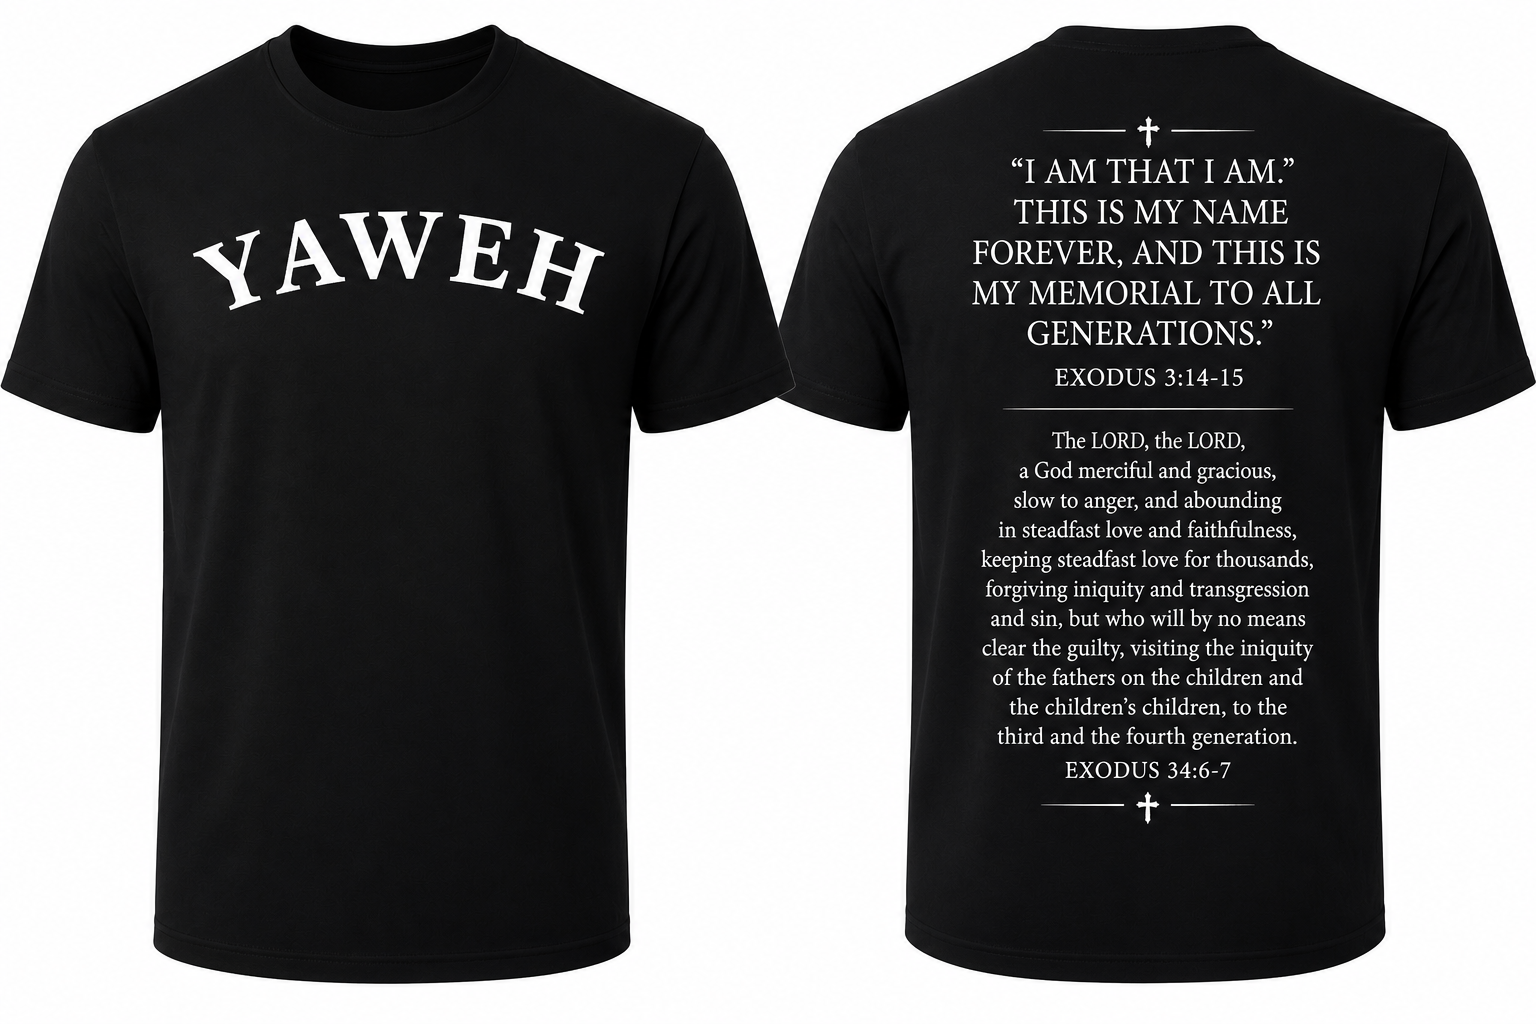
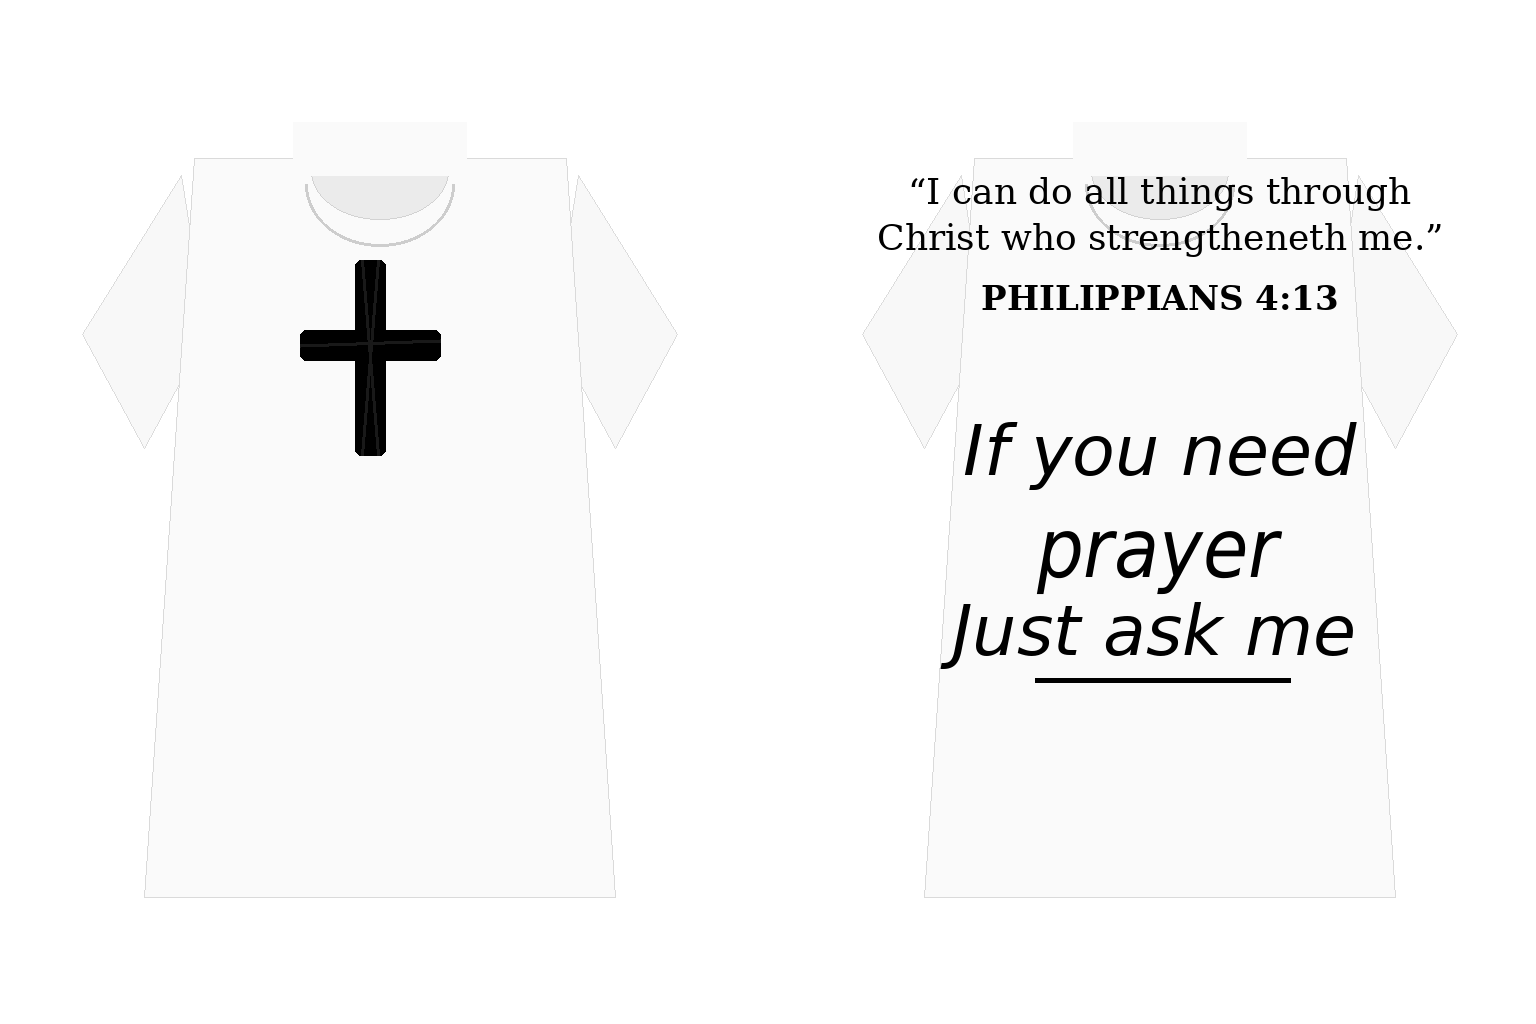
Add files via upload

diff --git a/index.html b/index.html
@@ -2,91 +2,112 @@
 <html lang="en">
 <head>
   <meta charset="utf-8">
-  <meta name="viewport" content="width=device-width,initial-scale=1">
+  <meta name="viewport" content="width=device-width, initial-scale=1">
   <title>No Vanity 33 | Christian Apparel</title>
-  <meta name="description" content="No Vanity 33 is Christian apparel created to carry Scripture, start prayer conversations, and point people toward Christ.">
-  <meta name="keywords" content="No Vanity 33, Christian clothing, Bible verse shirts, faith apparel, prayer shirts, Christ centered apparel">
+  <meta name="description" content="No Vanity 33 is Christ-centered apparel made to carry Scripture, start conversations, and invite prayer.">
+  <meta name="keywords" content="No Vanity 33, Christian clothing, faith apparel, Bible verse shirts, prayer shirts">
   <meta property="og:title" content="No Vanity 33 | Christian Apparel">
-  <meta property="og:description" content="Wear your faith. Live with purpose. Point others to Christ.">
+  <meta property="og:description" content="Wear the Word. Live with purpose. Point others to Christ.">
   <meta property="og:type" content="website">
   <link rel="stylesheet" href="styles.css">
 </head>
 <body>
-<header class="nav">
-  <a class="brand" href="#home">NO VANITY <span>33</span></a>
-  <nav>
-    <a href="#shop">Shop</a>
-    <a href="#mission">Mission</a>
-    <a href="#prayer">Prayer</a>
-    <a href="#generator">Scripture</a>
-    <a href="#cart">Cart <b id="cartCount">0</b></a>
-  </nav>
-</header>
+  <header class="nav">
+    <a class="brand" href="#home">NO VANITY <span>33</span></a>
+    <nav>
+      <a href="#shop">Shop</a>
+      <a href="#mission">Mission</a>
+      <a href="#prayer">Prayer</a>
+      <a href="#scripture">Scripture</a>
+      <a href="#cart">Cart <span id="cartCount">0</span></a>
+    </nav>
+  </header>
 
-<main>
-  <section id="home" class="hero">
-    <p class="eyebrow">FAITH • PURPOSE • NO VANITY</p>
-    <h1>Wear the Word. Live the Gospel. Point others to Christ.</h1>
-    <p>No Vanity 33 creates Christian apparel designed to carry Scripture, invite prayer, and remind the world that identity is found in Christ.</p>
-    <div class="hero-actions">
-      <a class="btn" href="#shop">Shop Collection</a>
-      <a class="btn secondary" href="#mission">Read the Mission</a>
-    </div>
-  </section>
+  <main>
+    <section id="home" class="hero">
+      <div class="hero-inner">
+        <p class="eyebrow">Christ-centered apparel</p>
+        <h1>Wear the Word. Live the Gospel.</h1>
+        <p class="hero-verse">“And whatsoever ye do, do it heartily, as to the Lord, and not unto men.” — Colossians 3:23</p>
+        <p>Scripture apparel made to carry truth, start conversations, and invite prayer.</p>
+        <div class="hero-actions">
+          <a class="btn" href="#shop">Shop Collection</a>
+          <a class="btn secondary" href="#mission">Read the Mission</a>
+        </div>
+      </div>
+    </section>
 
-  <section class="notice"><strong>Order Notice:</strong> Apparel is made to order. Please allow 3–4 weeks for production and delivery while we transition fulfillment to Printful.</section>
+    <section class="notice">
+      <strong>Important Order Information:</strong> Due to demand and made-to-order production, please allow 3–4 weeks lead time. Printful fulfillment is being prepared.
+    </section>
 
-  <section id="mission" class="panel mission-panel">
-    <p class="eyebrow">OUR STORY</p>
-    <h2>More Than Clothing</h2>
-    <p><strong>No Vanity 33</strong> was founded with one purpose: to point people toward Christ. In a world that often celebrates self, appearance, and status, we want every design to remind people that true identity is not found in ourselves — it is found in Jesus Christ.</p>
-    <p>Every shirt is created with intention. Our designs are meant to start conversations, encourage faith, and remind both the person wearing them and the people around them that hope is still alive.</p>
-    <p>One of the things that makes No Vanity 33 unique is that every design carries Scripture. Rather than printing the same verses repeatedly, we intentionally use different passages across our apparel. Our hope is that every order places God's Word into someone's life in a fresh way. A verse on the back of a shirt may be exactly what someone needed to read on an ordinary day.</p>
-    <p>You will also see a simple message across the brand: <strong>“If you need prayer, just ask me.”</strong> Those words are not just a slogan. They are an invitation. If one shirt leads to one prayer, one encouraging conversation, or one person taking a step closer to Christ, then it has already served a purpose greater than clothing.</p>
-    <p>As No Vanity 33 grows, our desire is to use the business to serve people in practical ways — helping those facing hardship, encouraging families in need, and reflecting Christ's love through both words and action.</p>
-  </section>
+    <section class="signature-strip">
+      <span>If you need prayer, just ask me.</span>
+      <span>novanity33.com</span>
+    </section>
 
-  <section id="prayer" class="panel gold-panel">
-    <p class="eyebrow">PRAYER INVITATION</p>
-    <h2>If You Need Prayer, Just Ask</h2>
-    <p>Every shirt is meant to be a conversation starter. Soon this page will include a prayer request form and QR-code links from each shirt.</p>
-    <a class="btn" href="mailto:[email redacted]?subject=Prayer%20Request%20-%20No%20Vanity%2033">Request Prayer by Email</a>
-  </section>
+    <section id="shop" class="section">
+      <p class="eyebrow">Full Catalog</p>
+      <h2>Shop Collection</h2>
+      <p class="section-intro">Launch tees are $20. Original apparel is restored below with shirts, shorts, sweatpants, and socks.</p>
+      <div class="filters" id="filters"></div>
+      <div id="products" class="grid"></div>
+    </section>
 
-  <section id="generator" class="panel">
-    <p class="eyebrow">SCRIPTURE GENERATOR</p>
-    <h2>Let the Word Speak</h2>
-    <p>Choose a theme and generate a Scripture that can be used on a custom design.</p>
-    <div class="gen-grid">
-      <select id="topic"><option value="faith">Faith</option><option value="strength">Strength</option><option value="hope">Hope</option><option value="salvation">Salvation</option><option value="peace">Peace</option></select>
-      <button class="btn" id="generateVerse">Generate Scripture</button>
-    </div>
-    <div id="verseBox" class="verse">Click the button to reveal a scripture.</div>
-    <textarea id="customVerse" placeholder="Generated scripture or custom request..."></textarea>
-    <button class="btn secondary" id="useGenerated">Use Generated Scripture</button>
-  </section>
+    <section id="mission" class="section mission">
+      <p class="eyebrow">Our Mission</p>
+      <h2>Why No Vanity 33 Exists</h2>
+      <div class="story-card">
+        <p><strong>No Vanity 33</strong> was founded with one purpose: to point people toward Christ.</p>
+        <p>In a world that often celebrates self, appearance, and status, we want every design to remind people that true identity is not found in ourselves. It is found in Jesus Christ. The name <strong>No Vanity</strong> is a reminder that our lives are meant to reflect Him, not ourselves.</p>
+        <p>Every shirt is created with intention. Our designs are meant to start conversations, encourage faith, and remind both the person wearing them and the people around them that hope is still alive.</p>
+        <p>One of the things that makes No Vanity 33 unique is that every design includes Scripture. Rather than printing the same verse repeatedly, we intentionally use different passages from the Bible across our apparel. Our hope is that every order places God’s Word into someone’s life in a fresh way. A verse on the back of a shirt may be exactly what someone needed to read on an ordinary day.</p>
+        <p>You will also notice a simple message on our apparel: <strong>“If you need prayer, just ask me.”</strong> Those words are not just a slogan. They are an invitation.</p>
+        <p>As No Vanity 33 grows, our desire is to use the business to serve people in practical ways: helping those facing hardship, encouraging families in need, and reflecting Christ’s love through both words and actions.</p>
+        <p><strong>Wear your faith. Live with purpose. Point others to Christ.</strong></p>
+      </div>
+    </section>
 
-  <section id="shop">
-    <p class="eyebrow">FULL CATALOG</p>
-    <h2>Shop Collection</h2>
-    <p class="section-copy">Includes the original catalog plus the four new $20 launch tees.</p>
-    <div id="products" class="grid"></div>
-  </section>
+    <section id="prayer" class="section prayer">
+      <p class="eyebrow">Prayer</p>
+      <h2>If You Need Prayer, Just Ask</h2>
+      <p class="section-intro">This section is the future home for prayer requests and QR-code shirt links. For now, customers can reach out by email.</p>
+      <div class="prayer-card">
+        <p><strong>Email:</strong> [email redacted]</p>
+        <p>Future update: QR codes on shirts will lead visitors to Scripture pages and prayer request forms.</p>
+      </div>
+    </section>
 
-  <section id="cart" class="panel">
-    <h2>Your Cart</h2>
-    <div id="cartItems">Cart is empty.</div>
-    <div class="total">Total: $<span id="total">0</span></div>
-    <div class="checkout">
-      <a class="btn" href="https://buy.stripe.com/fZu3cx2WugOz4FidoWao800" target="_blank">Checkout with Stripe</a>
-      <a class="btn secondary" href="https://paypal.me/novanity33" target="_blank">Pay with PayPal</a>
-      <a class="btn secondary" href="https://cash.app/$NoVanity33" target="_blank">Pay with Cash App</a>
-    </div>
-    <p class="small">After payment, email order details to [email redacted] until automated Printful checkout is connected.</p>
-  </section>
-</main>
+    <section id="scripture" class="section scripture">
+      <p class="eyebrow">Scripture on Every Design</p>
+      <h2>Why Every Shirt Carries the Word</h2>
+      <p class="section-intro">Every piece is meant to be more than clothing. It should carry Scripture into everyday places and open the door for prayer.</p>
+      <div class="three">
+        <div><h3>Start Conversations</h3><p>A verse can open a door that a normal logo cannot.</p></div>
+        <div><h3>Invite Prayer</h3><p>The small prayer line turns the shirt into an invitation.</p></div>
+        <div><h3>Point to Christ</h3><p>The brand is built to reflect Him, not vanity.</p></div>
+      </div>
+    </section>
 
-<footer>No Vanity 33 • [email redacted] • Wear the Word. Live the Gospel.</footer>
-<script src="script.js"></script>
+    <section id="cart" class="section cart-section">
+      <p class="eyebrow">Checkout</p>
+      <h2>Your Cart</h2>
+      <div id="cartItems" class="cart-items"></div>
+      <div class="cart-total">Total: $<span id="cartTotal">0.00</span></div>
+      <div class="checkout-box">
+        <p><strong>Current checkout:</strong> Use PayPal/Cash App while Stripe + Apple Pay + Google Pay + Printful are being connected.</p>
+        <a class="btn" href="https://paypal.me/novanity33" target="_blank" rel="noopener">Pay with PayPal</a>
+        <a class="btn secondary" href="https://cash.app/$NoVanity33" target="_blank" rel="noopener">Pay with Cash App</a>
+      </div>
+    </section>
+  </main>
+
+  <footer>
+    <strong>NO VANITY 33</strong>
+    <p>Clothing with purpose. Scripture with every wear.</p>
+    <p>Contact: [email redacted]</p>
+  </footer>
+
+  <script src="script.js"></script>
 </body>
 </html>

diff --git a/script.js b/script.js
@@ -1,71 +1,111 @@
-const products = [
-  {id:'cross-prayer-black',name:'Cross Prayer Tee - Black',price:20,img:'images/cross-prayer-black.png',desc:'Simple cross front, Scripture across the upper back, and a small prayer invitation.'},
-  {id:'cross-prayer-white',name:'Cross Prayer Tee - White',price:20,img:'images/cross-prayer-white.png',desc:'White launch tee with black lettering, Scripture, and the No Vanity prayer invitation.'},
-  {id:'yahweh-black',name:'YAHWEH Tee - Black',price:20,img:'images/qr-prayer-black.png',desc:'Bold faith tee with YAHWEH across the chest and Scripture on the back.'},
-  {id:'yahweh-white',name:'YAHWEH Tee - White',price:20,img:'images/yahweh-white.png',desc:'White YAHWEH launch tee with Scripture on the back.'},
-
-  {id:'crown-tee',name:'Crown of Thorns 33 Tee',price:25,img:'images/crown-tee.svg',desc:'Logo front with bold scripture back.'},
-  {id:'lion-tee',name:'Lion Crown Tee',price:25,img:'images/lion-tee.svg',desc:'Lion of Judah inspired front with scripture back.'},
-  {id:'cross-bible-tee',name:'Cross & Open Bible Tee',price:25,img:'images/cross-bible-tee.svg',desc:'Simple cross front and Word-centered back.'},
-  {id:'white-horse-tee',name:'Christ Returns Tee',price:30,img:'images/white-horse-tee.svg',desc:'White horse return design with King of Kings theme.'},
-  {id:'armor-tee',name:'Armor of God Tee',price:25,img:'images/armor-tee.svg',desc:'Armor of God design with scripture back.'},
-  {id:'custom-shirt',name:'Custom Scripture Shirt',price:30,img:'images/custom-shirt.svg',desc:'Use the Scripture Generator for the back.'},
-  {id:'hoodie',name:'No Vanity 33 Hoodie',price:45,img:'images/hoodie.svg',desc:'Premium hoodie with crown logo and scripture.'},
-  {id:'sweatpants',name:'Cross Scripture Sweatpants',price:35,img:'images/sweatpants.svg',desc:'Cross down one leg and scripture on the other.'},
-  {id:'black-shorts',name:'Black Sport Shorts',price:22,img:'images/black-shorts.svg',desc:'Simple cross athletic shorts.'},
-  {id:'red-shorts',name:'Red Cross Shorts',price:22,img:'images/red-shorts.svg',desc:'Red shorts with gold cross detail.'},
-  {id:'socks',name:'Cross Socks',price:12,img:'images/socks.svg',desc:'Cross socks with multiple color options.'},
-  {id:'beanie',name:'Crown 33 Beanie',price:18,img:'images/beanie.svg',desc:'Simple No Vanity 33 headwear.'}
-];
-
-const verses={
-  faith:['Hebrews 11:1 — Now faith is the substance of things hoped for, the evidence of things not seen.','2 Corinthians 5:7 — For we walk by faith, not by sight.'],
-  strength:['Philippians 4:13 — I can do all things through Christ which strengtheneth me.','Isaiah 40:31 — They that wait upon the LORD shall renew their strength.'],
-  hope:['Jeremiah 29:11 — For I know the thoughts that I think toward you, saith the LORD.','Romans 15:13 — Now the God of hope fill you with all joy and peace in believing.'],
-  salvation:['John 3:16 — For God so loved the world, that he gave his only begotten Son.','Romans 10:9 — If thou shalt confess with thy mouth the Lord Jesus...'],
-  peace:['John 14:27 — Peace I leave with you, my peace I give unto you.','Philippians 4:7 — The peace of God, which passeth all understanding...']
+const STORE = {
+  email: '[email redacted]',
+  paypalMe: 'https://paypal.me/novanity33',
+  cashApp: 'https://cash.app/$NoVanity33'
 };
 
-let cart=[];
-let currentVerse='';
+const products = [
+  // New $20 launch tees
+  {id:'cross-prayer-black', category:'Launch Tees', name:'Simple Cross Prayer Tee - Black', price:20, img:'images/cross-prayer-black.png', desc:'Simple white cross front with Scripture and prayer invitation on back.', sizes:['S','M','L','XL','2XL','3XL'], colors:['Black']},
+  {id:'cross-prayer-white', category:'Launch Tees', name:'Simple Cross Prayer Tee - White', price:20, img:'images/cross-prayer-white.png', desc:'Clean white tee with black cross, Scripture, and prayer invitation.', sizes:['S','M','L','XL','2XL','3XL'], colors:['White']},
+  {id:'yahweh-black', category:'Launch Tees', name:'YAHWEH Scripture Tee - Black', price:20, img:'images/yahweh-black.png', desc:'YAHWEH arched chest design with Exodus Scripture on back.', sizes:['S','M','L','XL','2XL','3XL'], colors:['Black']},
+  {id:'yahweh-white', category:'Launch Tees', name:'YAHWEH Scripture Tee - White', price:20, img:'images/yahweh-white.png', desc:'White YAHWEH Scripture tee with bold black lettering.', sizes:['S','M','L','XL','2XL','3XL'], colors:['White']},
+
+  // Original restored catalog
+  {id:'crown-thorns-33', category:'Shirts', name:'Crown of Thorns 33 Tee', price:25, img:'images/crown-thorns-33-tee.png', desc:'Crown of thorns with 33 and Isaiah 53:5 Scripture back.', sizes:['S','M','L','XL','2XL','3XL'], colors:['Black']},
+  {id:'logo-crown-tee', category:'Shirts', name:'Gold Crown 33 Logo Tee', price:25, img:'images/logo-crown-tee.png', desc:'Minimal No Vanity 33 crown logo shirt with John 3:33.', sizes:['S','M','L','XL','2XL','3XL'], colors:['Black']},
+  {id:'no-vanity-black', category:'Shirts', name:'No Vanity Statement Tee - Black', price:25, img:'images/no-vanity-shirt.png', desc:'No Vanity 33 statement tee with 1 Corinthians 10:31.', sizes:['S','M','L','XL','2XL','3XL'], colors:['Black']},
+  {id:'no-vanity-tan', category:'Shirts', name:'No Vanity Statement Tee - Tan', price:25, img:'images/no-vanity-tan-shirt.png', desc:'Tan No Vanity 33 tee with Scripture back.', sizes:['S','M','L','XL','2XL','3XL'], colors:['Tan']},
+  {id:'christ-returns', category:'Shirts', name:'Christ Returns King of Kings Tee', price:30, img:'images/christ-returns-tee.png', desc:'Christ returning on the white horse with Revelation 19:11–16 theme.', sizes:['S','M','L','XL','2XL','3XL'], colors:['Black']},
+  {id:'lion-judah', category:'Shirts', name:'Lion of Judah Tee', price:30, img:'images/lion-of-judah-tee.png', desc:'Lion of the tribe of Judah design with Revelation 5:5 back.', sizes:['S','M','L','XL','2XL','3XL'], colors:['Black']},
+  {id:'crown-logo-alt', category:'Shirts', name:'Crown 33 Logo Tee Alt', price:25, img:'images/crown-thorns-logo-tee-alt.png', desc:'Alternate crown logo product image for No Vanity 33.', sizes:['S','M','L','XL','2XL','3XL'], colors:['Black']},
+
+  {id:'black-cross-sweatpants', category:'Sweatpants', name:'Black Cross Scripture Sweatpants', price:45, img:'images/black-cross-sweatpants.png', desc:'Black sweatpants with cross and multiple Scripture references.', sizes:['S','M','L','XL','2XL','3XL'], colors:['Black']},
+  {id:'gray-cross-sweatpants', category:'Sweatpants', name:'Gray Cross Scripture Sweatpants', price:45, img:'images/gray-cross-sweatpants.png', desc:'Gray sweatpants with cross and Scripture down the leg.', sizes:['S','M','L','XL','2XL','3XL'], colors:['Gray']},
+  {id:'gray-sweatpants-alt', category:'Sweatpants', name:'Gray Scripture Sweatpants Alt', price:45, img:'images/gray-sweatpants-alt.png', desc:'Alternate gray sweatpants product image.', sizes:['S','M','L','XL','2XL','3XL'], colors:['Gray']},
+
+  {id:'black-cross-shorts', category:'Shorts', name:'Black Cross Shorts', price:30, img:'images/black-cross-shorts.png', desc:'Black athletic shorts with simple white cross.', sizes:['S','M','L','XL','2XL','3XL'], colors:['Black']},
+  {id:'red-crown-shorts', category:'Shorts', name:'Red Crown 33 Shorts', price:30, img:'images/red-crown-shorts.png', desc:'Red shorts with crown 33 logo and Isaiah 53:5 Scripture.', sizes:['S','M','L','XL','2XL','3XL'], colors:['Red']},
+
+  {id:'black-red-cross-socks', category:'Socks', name:'Black Socks with Red Cross', price:15, img:'images/black-red-cross-socks.png', desc:'Black crew socks with red cross on front.', sizes:['One Size'], colors:['Black / Red']},
+  {id:'red-cross-socks', category:'Socks', name:'Red Cross Socks', price:15, img:'images/red-cross-socks.png', desc:'Red socks with white cross details.', sizes:['One Size'], colors:['Red']},
+  {id:'blue-cross-socks', category:'Socks', name:'Blue Cross Socks', price:15, img:'images/blue-cross-socks.png', desc:'Blue socks with white cross details.', sizes:['One Size'], colors:['Blue']},
+  {id:'green-cross-socks', category:'Socks', name:'Green Cross Socks', price:15, img:'images/green-cross-socks.png', desc:'Green socks with white cross details.', sizes:['One Size'], colors:['Green']}
+];
+
+let currentCategory = 'All';
+let cart = [];
+
+function money(n){ return Number(n).toFixed(2); }
+
+function categories(){
+  return ['All', ...Array.from(new Set(products.map(p => p.category)))];
+}
+
+function renderFilters(){
+  const el = document.getElementById('filters');
+  el.innerHTML = categories().map(cat => `<button class="filter-btn ${cat===currentCategory?'active':''}" data-cat="${cat}">${cat}</button>`).join('');
+  el.querySelectorAll('button').forEach(btn => btn.addEventListener('click', () => {
+    currentCategory = btn.dataset.cat;
+    renderFilters();
+    renderProducts();
+  }));
+}
+
+function productCard(p){
+  return `<article class="card">
+    ${p.category==='Launch Tees' ? '<span class="badge">New $20 Launch Tee</span>' : `<span class="badge">${p.category}</span>`}
+    <img src="${p.img}" alt="${p.name}" loading="lazy" onerror="this.style.opacity=.35;this.alt='Image missing: ${p.img}'">
+    <h3>${p.name}</h3>
+    <div class="price">$${money(p.price)}</div>
+    <p class="desc">${p.desc}</p>
+    <div class="options">
+      <label>Size
+        <select id="size-${p.id}">${p.sizes.map(s => `<option>${s}</option>`).join('')}</select>
+      </label>
+      <label>Color
+        <select id="color-${p.id}">${p.colors.map(c => `<option>${c}</option>`).join('')}</select>
+      </label>
+    </div>
+    <button class="btn add" onclick="addToCart('${p.id}')">Add to Cart</button>
+  </article>`;
+}
 
 function renderProducts(){
-  const productGrid = document.getElementById('products');
-  productGrid.innerHTML=products.map(p=>`<div class="card">
-    <div class="image-wrap"><img src="${p.img}" alt="${p.name}"></div>
-    <h3>${p.name}</h3>
-    <p>${p.desc}</p>
-    <p class="prayer-line">If you need prayer, just ask me.</p>
-    <div class="options">
-      <select id="size-${p.id}"><option>S</option><option>M</option><option>L</option><option>XL</option><option>2X</option><option>3X</option></select>
-      <select id="color-${p.id}"><option>Black</option><option>White</option><option>Cream</option><option>Olive</option><option>Red</option><option>Gold</option><option>Gray</option></select>
-    </div>
-    <div class="price">$${p.price}</div>
-    <button class="btn" onclick="addToCart('${p.id}')">Add to Cart</button>
-  </div>`).join('')
+  const list = currentCategory === 'All' ? products : products.filter(p => p.category === currentCategory);
+  document.getElementById('products').innerHTML = list.map(productCard).join('');
 }
 
 function addToCart(id){
-  const p=products.find(x=>x.id===id);
-  cart.push({...p,size:document.getElementById('size-'+id).value,color:document.getElementById('color-'+id).value,verse:currentVerse});
+  const p = products.find(x => x.id === id);
+  const size = document.getElementById(`size-${id}`).value;
+  const color = document.getElementById(`color-${id}`).value;
+  cart.push({...p, size, color});
+  renderCart();
+}
+
+function removeFromCart(index){
+  cart.splice(index,1);
   renderCart();
 }
 
 function renderCart(){
-  document.getElementById('cartCount').textContent=cart.length;
-  if(!cart.length){document.getElementById('cartItems').textContent='Cart is empty.';document.getElementById('total').textContent='0';return}
-  document.getElementById('cartItems').innerHTML=cart.map((i,n)=>`<div class="cart-row"><span>${i.name} — ${i.size}, ${i.color}</span><strong>$${i.price}</strong></div>`).join('');
-  document.getElementById('total').textContent=cart.reduce((s,i)=>s+i.price,0)
+  document.getElementById('cartCount').textContent = cart.length;
+  const items = document.getElementById('cartItems');
+  if(!cart.length){
+    items.innerHTML = '<p class="section-intro">Your cart is empty.</p>';
+  } else {
+    items.innerHTML = cart.map((item, i) => `<div class="cart-row">
+      <div><strong>${item.name}</strong><br><span>${item.size} / ${item.color}</span></div>
+      <div><strong>$${money(item.price)}</strong> <button onclick="removeFromCart(${i})">Remove</button></div>
+    </div>`).join('');
+  }
+  const total = cart.reduce((sum, item) => sum + Number(item.price), 0);
+  document.getElementById('cartTotal').textContent = money(total);
 }
 
-document.getElementById('generateVerse').onclick=()=>{
-  const t=document.getElementById('topic').value;
-  const arr=verses[t];
-  currentVerse=arr[Math.floor(Math.random()*arr.length)];
-  document.getElementById('verseBox').textContent=currentVerse
-};
-
-document.getElementById('useGenerated').onclick=()=>{document.getElementById('customVerse').value=currentVerse||'Let God choose my scripture.'};
-
-renderProducts();
-renderCart();
+document.addEventListener('DOMContentLoaded', () => {
+  renderFilters();
+  renderProducts();
+  renderCart();
+});

diff --git a/styles.css b/styles.css
@@ -1,1 +1,4 @@
-:root{--bg:#080808;--panel:#111;--panel2:#171717;--text:#f5f2e8;--muted:#c9c1ad;--gold:#d9ad45;--line:#2b261b}*{box-sizing:border-box}html{scroll-behavior:smooth}body{margin:0;font-family:Arial,Helvetica,sans-serif;background:var(--bg);color:var(--text)}a{color:inherit}.nav{position:sticky;top:0;z-index:10;display:flex;justify-content:space-between;align-items:center;padding:18px 24px;background:rgba(8,8,8,.94);border-bottom:1px solid var(--line);backdrop-filter:blur(8px)}.brand{font-weight:900;letter-spacing:2px;text-decoration:none}.brand span{color:var(--gold)}nav{display:flex;gap:16px;flex-wrap:wrap}nav a{text-decoration:none;color:var(--muted);font-weight:700;font-size:14px}nav a:hover{color:var(--gold)}.hero{min-height:70vh;padding:90px 24px;display:flex;flex-direction:column;justify-content:center;align-items:flex-start;background:radial-gradient(circle at top right,#34260b,transparent 40%),linear-gradient(135deg,#090909,#17130a)}.hero h1{font-size:clamp(38px,7vw,78px);line-height:.95;max-width:920px;margin:10px 0}.hero p{font-size:20px;max-width:760px;color:var(--muted);line-height:1.5}.hero-actions{display:flex;gap:12px;flex-wrap:wrap}.eyebrow{color:var(--gold)!important;font-weight:900;letter-spacing:3px;text-transform:uppercase;font-size:13px!important}.btn{display:inline-block;border:0;border-radius:999px;padding:13px 20px;background:var(--gold);color:#111;font-weight:900;text-decoration:none;cursor:pointer}.btn.secondary{background:transparent;color:var(--gold);border:1px solid var(--gold)}.notice{margin:0;padding:16px 24px;text-align:center;background:#1b1508;color:#ffe2a4;border-top:1px solid var(--line);border-bottom:1px solid var(--line)}section{padding:54px 24px}.panel{max-width:1100px;margin:34px auto;padding:34px;background:var(--panel);border:1px solid var(--line);border-radius:22px}.mission-panel p{font-size:18px;line-height:1.65;color:var(--muted)}.gold-panel{background:linear-gradient(135deg,#171207,#0d0d0d);border-color:#5b4316}.panel h2,section h2{font-size:clamp(28px,4vw,44px);margin:0 0 14px}.section-copy{color:var(--muted);font-size:18px}.gen-grid{display:flex;gap:12px;flex-wrap:wrap}select,textarea{width:100%;max-width:420px;border:1px solid var(--line);background:#050505;color:var(--text);border-radius:12px;padding:12px}textarea{display:block;min-height:110px;margin:16px 0}.verse{margin:18px 0;padding:18px;border-left:4px solid var(--gold);background:#080808;color:#ffe2a4;line-height:1.5}.grid{display:grid;grid-template-columns:repeat(4,minmax(0,1fr));gap:22px;max-width:1320px;margin:24px auto}.card{background:var(--panel);border:1px solid var(--line);border-radius:20px;padding:18px;display:flex;flex-direction:column;gap:10px}.image-wrap{background:#eee;border-radius:14px;overflow:hidden;aspect-ratio:1/1;display:flex;align-items:center;justify-content:center}.card img{width:100%;height:100%;object-fit:contain}.card h3{margin:6px 0 0;font-size:20px}.card p{color:var(--muted);line-height:1.4}.prayer-line{font-size:13px!important;color:#ffe2a4!important;font-weight:800}.options{display:grid;grid-template-columns:1fr 1fr;gap:8px;margin-top:auto}.price{color:var(--gold);font-size:24px;font-weight:900}.cart-row{display:flex;justify-content:space-between;gap:12px;border-bottom:1px solid var(--line);padding:12px 0}.total{font-size:24px;font-weight:900;margin:16px 0}.checkout{display:flex;gap:12px;flex-wrap:wrap}.small{font-size:13px;color:var(--muted)}footer{text-align:center;padding:35px;color:var(--muted);border-top:1px solid var(--line)}@media(max-width:1000px){.grid{grid-template-columns:repeat(2,minmax(0,1fr))}.nav{align-items:flex-start;flex-direction:column;gap:12px}}@media(max-width:620px){.grid{grid-template-columns:1fr}.hero{padding:70px 18px}.panel,section{padding:28px 18px}.nav{padding:14px}nav{gap:10px}.options{grid-template-columns:1fr}}
+:root{
+  --bg:#050505; --panel:#111; --panel2:#181818; --text:#f7f2e8; --muted:#c9c0ae; --gold:#d7b84a; --gold2:#f2d56b; --line:#4d421c;
+}
+*{box-sizing:border-box}html{scroll-behavior:smooth}body{margin:0;background:var(--bg);color:var(--text);font-family:Arial,Helvetica,sans-serif;line-height:1.5}a{color:inherit;text-decoration:none}.nav{position:sticky;top:0;z-index:10;display:flex;justify-content:space-between;align-items:center;gap:24px;padding:22px 7%;background:rgba(0,0,0,.92);border-bottom:1px solid var(--line);backdrop-filter:blur(8px)}.brand{font-size:30px;font-weight:900;letter-spacing:14px}.brand span{color:var(--gold)}nav{display:flex;gap:22px;flex-wrap:wrap;font-weight:800}nav a:hover{color:var(--gold)}.hero{min-height:72vh;display:flex;align-items:center;padding:80px 7%;background:radial-gradient(circle at 70% 15%,rgba(215,184,74,.18),transparent 35%),linear-gradient(135deg,#000,#101010)}.hero-inner{max-width:900px}.eyebrow{text-transform:uppercase;letter-spacing:9px;color:var(--gold);font-weight:900;margin:0 0 10px}.hero h1,.section h2{font-size:clamp(42px,7vw,86px);line-height:.95;margin:0 0 24px;color:var(--gold)}.section h2{font-size:clamp(34px,5vw,62px)}.hero p{font-size:22px;max-width:850px}.hero-verse{font-family:Georgia,serif;color:#fff}.hero-actions{display:flex;gap:16px;flex-wrap:wrap;margin-top:30px}.btn{display:inline-flex;align-items:center;justify-content:center;border:1px solid var(--gold);background:var(--gold);color:#070707;font-weight:900;padding:13px 20px;border-radius:999px;text-transform:uppercase;letter-spacing:1px}.btn.secondary{background:transparent;color:var(--gold)}.notice,.signature-strip{margin:0;padding:18px 7%;border-top:1px solid var(--line);border-bottom:1px solid var(--line);background:#090909;color:var(--muted)}.signature-strip{display:flex;justify-content:space-between;gap:18px;flex-wrap:wrap;color:#fff;font-weight:800}.section{padding:72px 7%}.section-intro{font-size:22px;color:var(--muted);max-width:950px}.filters{display:flex;gap:10px;flex-wrap:wrap;margin:28px 0}.filter-btn{border:1px solid var(--line);background:#0d0d0d;color:var(--text);padding:11px 16px;border-radius:999px;font-weight:800;cursor:pointer}.filter-btn.active,.filter-btn:hover{background:var(--gold);color:#000;border-color:var(--gold)}.grid{display:grid;grid-template-columns:repeat(auto-fit,minmax(255px,1fr));gap:24px}.card{background:linear-gradient(180deg,#121212,#080808);border:1px solid var(--line);border-radius:22px;padding:18px;box-shadow:0 12px 30px rgba(0,0,0,.35)}.card img{width:100%;aspect-ratio:1/1;object-fit:cover;background:#222;border-radius:16px;border:1px solid #292929}.badge{display:inline-block;background:var(--gold);color:#000;font-weight:900;padding:7px 12px;border-radius:999px;margin-bottom:10px;font-size:13px}.card h3{font-size:24px;margin:14px 0 6px}.price{font-size:24px;color:var(--gold);font-weight:900}.desc{color:var(--muted);min-height:56px}.options{display:grid;gap:10px;margin:14px 0}.options label{display:grid;gap:6px;color:var(--muted);font-weight:700}.options select{padding:11px;border-radius:10px;border:1px solid #333;background:#050505;color:#fff}.add{width:100%;margin-top:8px;cursor:pointer}.story-card,.prayer-card,.three>div,.checkout-box{background:var(--panel);border:1px solid var(--line);border-radius:22px;padding:26px}.story-card p{font-size:20px;color:var(--muted)}.three{display:grid;grid-template-columns:repeat(auto-fit,minmax(220px,1fr));gap:18px;margin-top:28px}.three h3{color:var(--gold);font-size:24px}.cart-items{display:grid;gap:12px}.cart-row{display:flex;justify-content:space-between;gap:18px;align-items:center;background:var(--panel);border:1px solid var(--line);border-radius:14px;padding:14px}.cart-row button{background:#2b0000;color:#fff;border:1px solid #5c1111;border-radius:10px;padding:8px 12px;cursor:pointer}.cart-total{font-size:30px;font-weight:900;color:var(--gold);margin:24px 0}.checkout-box{display:flex;gap:14px;flex-wrap:wrap;align-items:center}.checkout-box p{width:100%;margin-top:0;color:var(--muted)}footer{text-align:center;padding:40px 7%;border-top:1px solid var(--line);color:var(--muted)}footer strong{color:var(--gold);letter-spacing:8px}@media(max-width:760px){.nav{align-items:flex-start;flex-direction:column}.brand{font-size:22px;letter-spacing:7px}nav{gap:12px}.hero{padding-top:55px}.hero p,.section-intro{font-size:18px}.section{padding:50px 5%}.card h3{font-size:21px}}